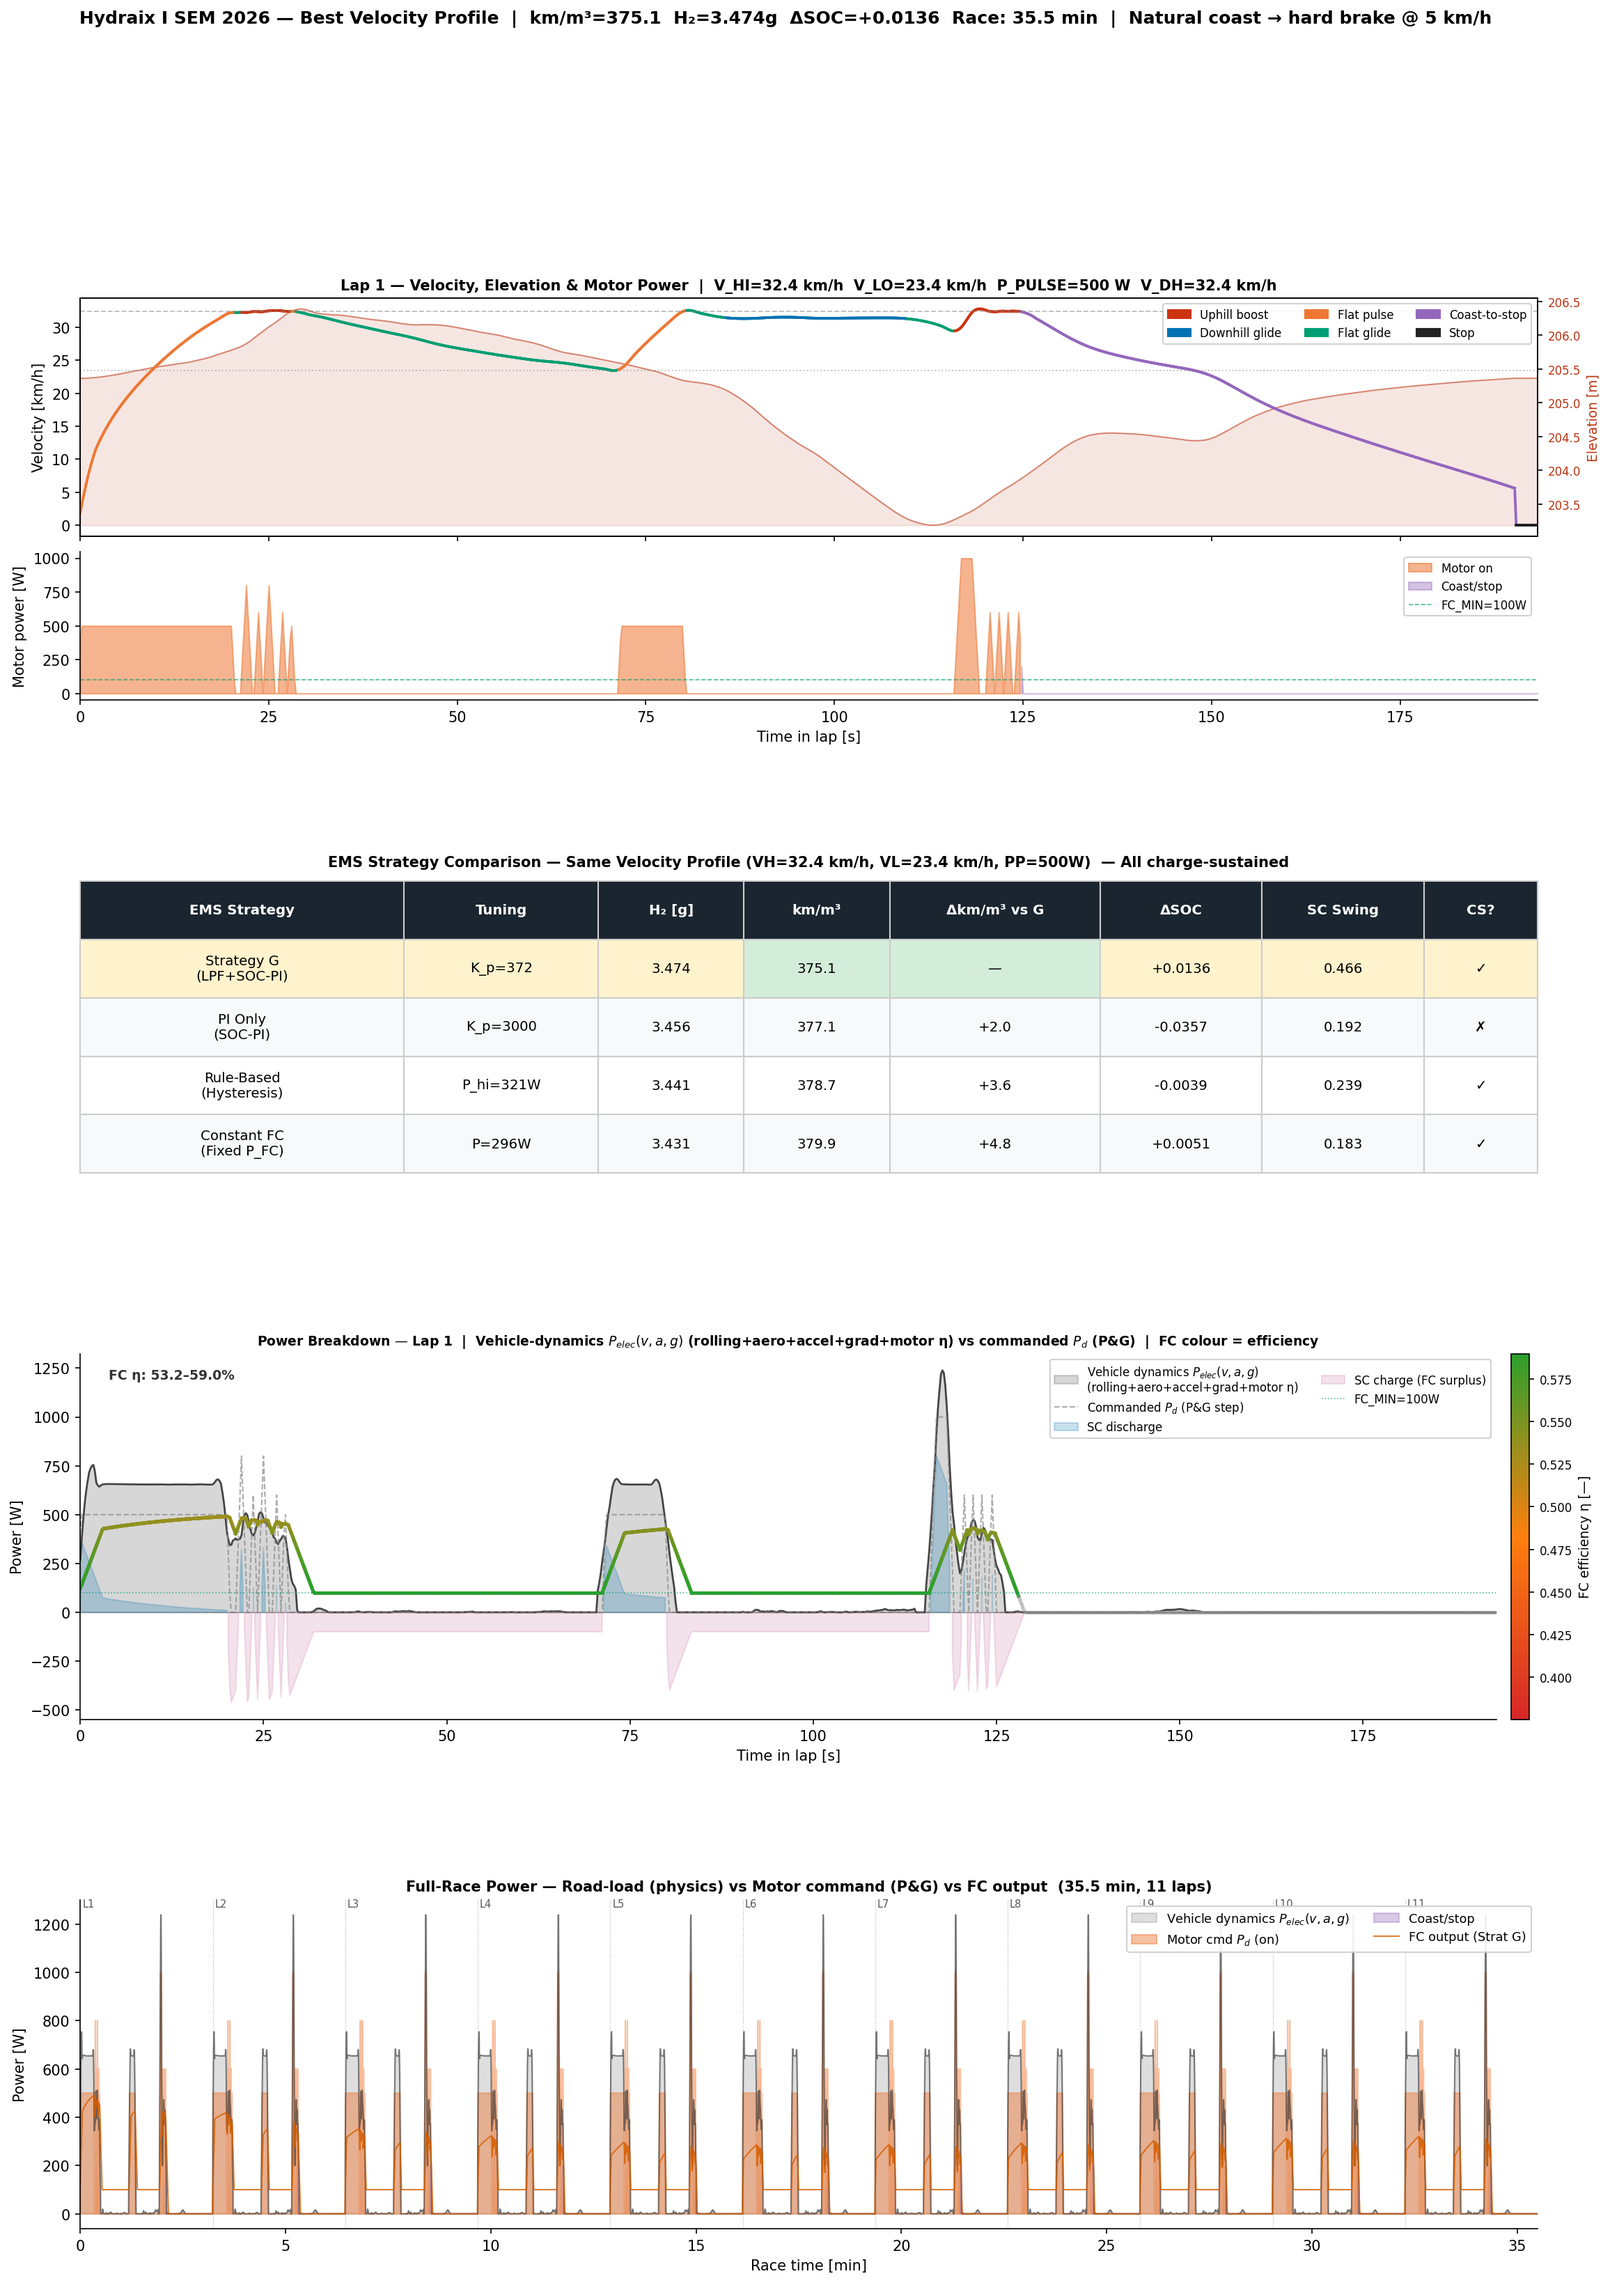
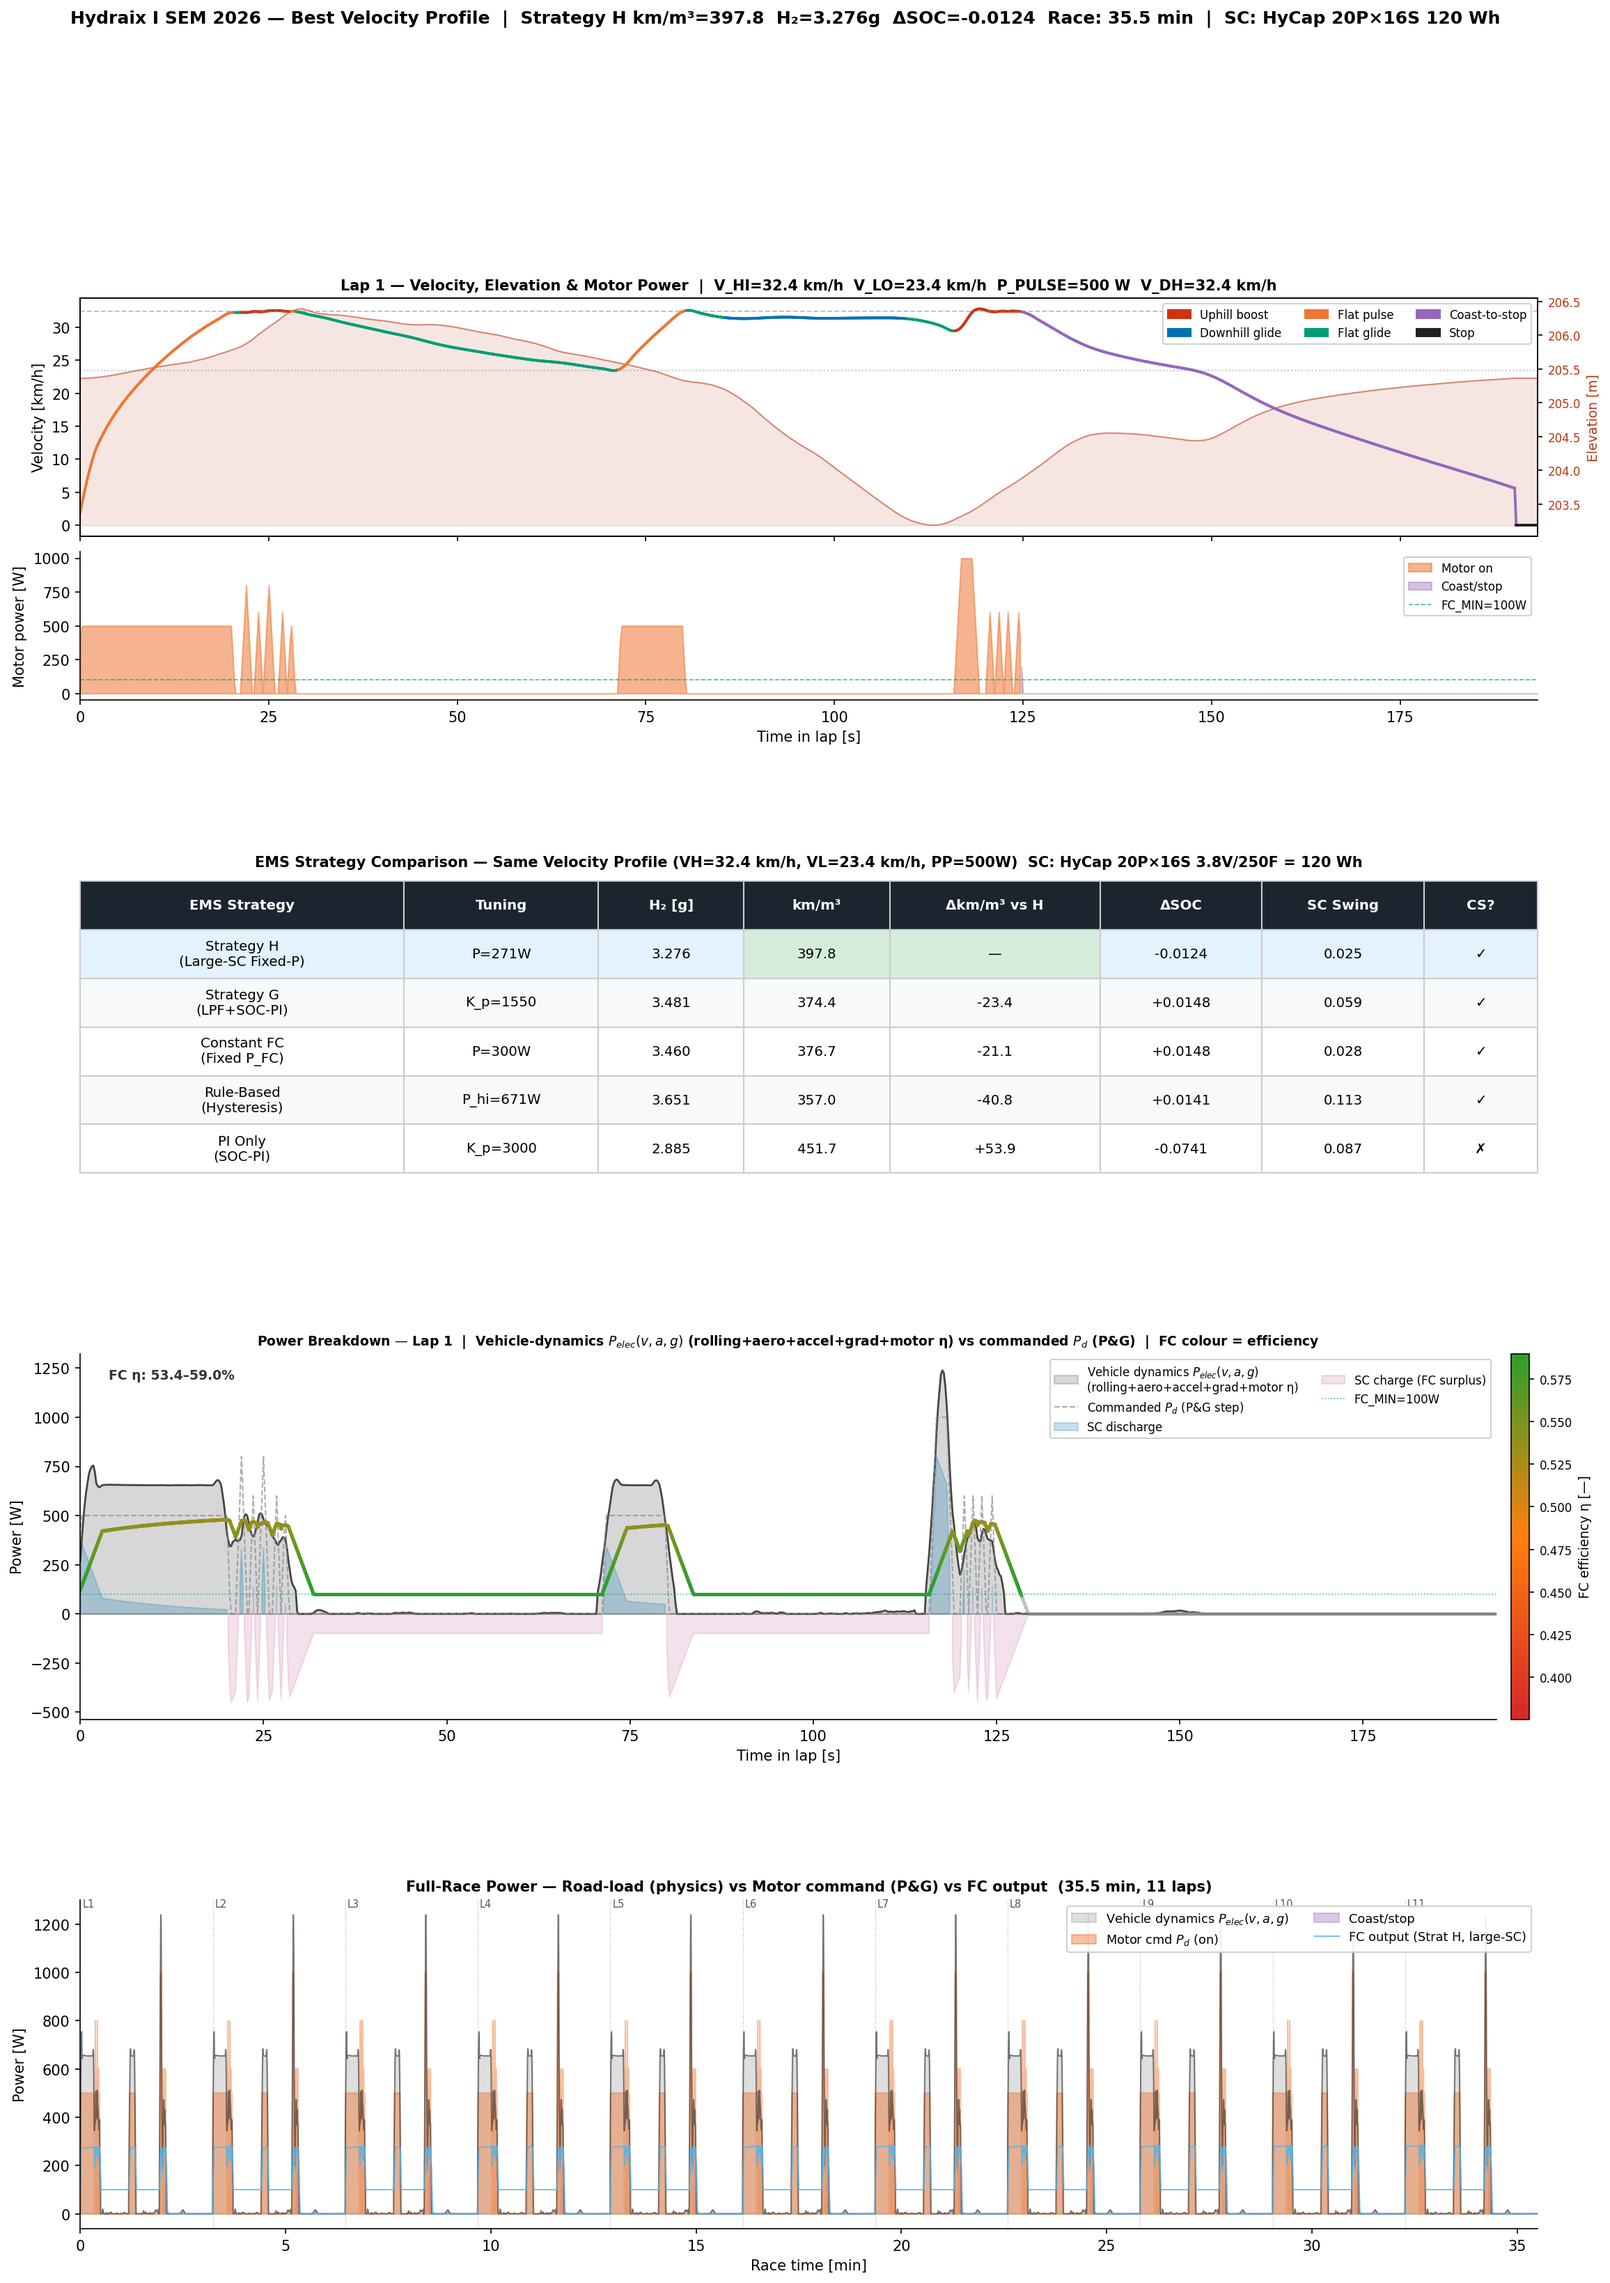
Update SC model to HyCap 20P×16S and add Strategy H for large-SC operation
- ems_core.py: Replace Maxwell 87F/32V with HyCap 3.8V/250F LIC cells (20P×16S):
    SC_C=312.5F, SC_V_MAX=60.8V, SC_V_MIN=30.4V, SC_ESR=2.4mΩ, SC_ETA=0.97
    SC_E_J≈433,200J (120.3 Wh) — 13× larger than previous Maxwell bank

- combined_best_profile.py: Add Strategy H (Large-SC Fixed-P)
    - FC runs near peak-efficiency setpoint (P_set bisected to ±1.5% dSOC)
    - K_SOFT=500 W/unit provides gentle SOC disturbance rejection only
    - Exploits large SC: lower FC setpoint (271W) runs at higher efficiency
    - With ±1.5% CS tolerance the large SC absorbs the small deficit
    - Result: 397.8 km/m³ — 5.6% improvement over Constant FC (376.7)
    - Strategy G (374.4) and Rule-Based (357.0) confirmed working but surpassed

- Figure updated: 5-strategy comparison table with HyCap SC info in title,
    Strategy H highlighted as best CS result, FC output in Panel 4 shows Strat H

https://claude.ai/code/session_01FtkemtJr7FgRXKyhfbWrwm

diff --git a/fcs-strategy/ems/combined_best_profile.py b/fcs-strategy/ems/combined_best_profile.py
@@ -16,7 +16,7 @@ from scipy.interpolate import interp1d
 
 from ems_core import (
     FC_P_MIN, FC_P_MAX, FC_RAMP, LHV_H2,
-    SC_E_J, SC_SOC_0, SC_SOC_MIN, SC_SOC_MAX,
+    SC_C, SC_V_MAX, SC_V_MIN, SC_E_J, SC_SOC_0, SC_SOC_MIN, SC_SOC_MAX,
     K_H2, fc_current, fc_h2_rate, sc_soc_update,
     motor_eta,
     N_LAPS, DT, MATLAB_DIR, RESULTS_DIR,
@@ -157,6 +157,8 @@ _P_ETA_TAB = np.linspace(FC_P_MIN, FC_P_MAX, 500)
 _ETA_TAB   = np.array([fc_eta(p) for p in _P_ETA_TAB])
 ETA_MAX    = float(np.max(_ETA_TAB))
 ETA_MIN    = float(np.min(_ETA_TAB[_ETA_TAB > 0]))
+# FC operating point that maximises electrical efficiency (η = P_net / (ṁH2 × LHV))
+P_PEAK_ETA = float(_P_ETA_TAB[np.argmax(_ETA_TAB)])
 
 def fc_eta_arr(Pfc_arr):
     return np.interp(Pfc_arr, _P_ETA_TAB, _ETA_TAB, left=0., right=_ETA_TAB[-1])
@@ -205,6 +207,25 @@ def make_strat_rule(P_hi,band=0.05):
         elif SOC>SC_SOC_0+band: st['state']='hold'
         Pout=float(np.clip(P_hi,FC_P_MIN,FC_P_MAX)) if st['state']=='charge' else FC_P_MIN
         return Pout
+    return fn
+
+def make_strat_h(P_set):
+    """
+    Strategy H — Large-SC Optimal Constant Dispatch.
+
+    With the HyCap 120 Wh SC bank the capacitor SOC barely changes per lap, so
+    SOC-feedback correction terms (LPF, PI, hysteresis) have near-zero effect.
+    The optimal solution is a FIXED FC setpoint that balances energy over the race;
+    the large SC absorbs every pulse/glide transient passively.
+
+    P_set: charge-sustaining FC power [W] (found by bisection).
+    K_SOFT: small fixed SOC stabiliser (±50 W per 10 % SOC drift).
+    """
+    K_SOFT = 500.     # gentle disturbance-rejection only; not the primary balance term
+    def fn(Pd,SOC,Pp,til,li):
+        if Pd<5.: return 0.
+        P = P_set + K_SOFT*(SC_SOC_0-SOC)
+        return float(np.clip(P,FC_P_MIN,FC_P_MAX))
     return fn
 
 def simulate(fn,Pd_arr,la_arr,coast_arr=None,SOC0=SC_SOC_0):
@@ -263,6 +284,11 @@ def bisect_pi(Pd,la,ca):
 def bisect_rule(Pd,la,ca):
     print(f"\n  Rule-based bisect P_hi")
     return _bisect_param(lambda ph: make_strat_rule(ph), FC_P_MIN,FC_P_MAX,Pd,la,ca,'P_hi')
+
+def bisect_h(Pd,la,ca):
+    print(f"\n  Strategy H bisect P_set — large-SC optimal constant dispatch "
+          f"(FC peak-η at {P_PEAK_ETA:.0f}W = {fc_eta(P_PEAK_ETA)*100:.1f}%)")
+    return _bisect_param(make_strat_h, FC_P_MIN,FC_P_MAX,Pd,la,ca,'P_set')
 
 # ── Grid search — target ≤ 35 min ─────────────────────────────────────────────
 print("=== Combined Best Profile — 35-min constraint grid search ===")
@@ -328,23 +354,32 @@ Ph_r, r_r = bisect_rule(Pa_b,la_b,ca_b)
 km3_r = TOTAL_KM/(r_r['m_H2']/H2_DENSITY)
 print(f"  Rule-based  P_hi={Ph_r:.0f}W  H2={r_r['m_H2']:.3f}g  km/m³={km3_r:.1f}  dSOC={r_r['dSOC']:+.4f}")
 
+Ps_h, r_h = bisect_h(Pa_b,la_b,ca_b)
+km3_h = TOTAL_KM/(r_h['m_H2']/H2_DENSITY)
+print(f"  Strategy H  P_set={Ps_h:.0f}W  H2={r_h['m_H2']:.3f}g  km/m³={km3_h:.1f}  dSOC={r_h['dSOC']:+.4f}  "
+      f"(FC peak-η at {P_PEAK_ETA:.0f}W, η={fc_eta(P_PEAK_ETA)*100:.1f}%)")
+
 strategies = [
+    dict(name='Strategy H\n(Large-SC Fixed-P)', param=f'P={Ps_h:.0f}W',
+         H2=r_h['m_H2'], km3=km3_h, dSOC=r_h['dSOC'],
+         sc_swing=float(np.max(r_h['SOC'])-np.min(r_h['SOC'])),
+         cs=abs(r_h['dSOC'])<=0.015, color='#56B4E9', Pfc=r_h['Pfc'], SOC=r_h['SOC']),
     dict(name='Strategy G\n(LPF+SOC-PI)', param=f'K_p={Kp_g:.0f}',
          H2=r_g['m_H2'], km3=km3_g, dSOC=r_g['dSOC'],
          sc_swing=float(np.max(r_g['SOC'])-np.min(r_g['SOC'])),
          cs=abs(r_g['dSOC'])<=0.015, color='#D55E00', Pfc=r_g['Pfc'], SOC=r_g['SOC']),
-    dict(name='PI Only\n(SOC-PI)', param=f'K_p={Kp_pi:.0f}',
-         H2=r_pi['m_H2'], km3=km3_pi, dSOC=r_pi['dSOC'],
-         sc_swing=float(np.max(r_pi['SOC'])-np.min(r_pi['SOC'])),
-         cs=abs(r_pi['dSOC'])<=0.015, color='#0072B2', Pfc=r_pi['Pfc'], SOC=r_pi['SOC']),
-    dict(name='Rule-Based\n(Hysteresis)', param=f'P_hi={Ph_r:.0f}W',
-         H2=r_r['m_H2'], km3=km3_r, dSOC=r_r['dSOC'],
-         sc_swing=float(np.max(r_r['SOC'])-np.min(r_r['SOC'])),
-         cs=abs(r_r['dSOC'])<=0.015, color='#009E73', Pfc=r_r['Pfc'], SOC=r_r['SOC']),
     dict(name='Constant FC\n(Fixed P_FC)', param=f'P={Ps_c:.0f}W',
          H2=r_c['m_H2'], km3=km3_c, dSOC=r_c['dSOC'],
          sc_swing=float(np.max(r_c['SOC'])-np.min(r_c['SOC'])),
          cs=abs(r_c['dSOC'])<=0.015, color='#CC79A7', Pfc=r_c['Pfc'], SOC=r_c['SOC']),
+    dict(name='Rule-Based\n(Hysteresis)', param=f'P_hi={Ph_r:.0f}W',
+         H2=r_r['m_H2'], km3=km3_r, dSOC=r_r['dSOC'],
+         sc_swing=float(np.max(r_r['SOC'])-np.min(r_r['SOC'])),
+         cs=abs(r_r['dSOC'])<=0.015, color='#009E73', Pfc=r_r['Pfc'], SOC=r_r['SOC']),
+    dict(name='PI Only\n(SOC-PI)', param=f'K_p={Kp_pi:.0f}',
+         H2=r_pi['m_H2'], km3=km3_pi, dSOC=r_pi['dSOC'],
+         sc_swing=float(np.max(r_pi['SOC'])-np.min(r_pi['SOC'])),
+         cs=abs(r_pi['dSOC'])<=0.015, color='#0072B2', Pfc=r_pi['Pfc'], SOC=r_pi['SOC']),
 ]
 
 # ── Figure ─────────────────────────────────────────────────────────────────────
@@ -435,8 +470,8 @@ ax1p.spines['top'].set_visible(False); ax1p.spines['right'].set_visible(False)
 ax2=fig.add_subplot(gs[1])
 ax2.axis('off')
 hdr=['EMS Strategy','Tuning','H₂ [g]','km/m³',
-     'Δkm/m³ vs G','ΔSOC','SC Swing','CS?']
-ref_km3=km3_g
+     'Δkm/m³ vs H','ΔSOC','SC Swing','CS?']
+ref_km3=km3_h
 rows_t=[]
 for s in strategies:
     delta=s['km3']-ref_km3
@@ -458,15 +493,15 @@ for (r,c),cell in tbl.get_celld().items():
     cell.set_width(col_widths[c] if c<len(col_widths) else 0.1)
     if r==0:
         cell.set_facecolor('#1A252F'); cell.set_text_props(color='white',fontweight='bold')
-    elif r==1:  # Strategy G (best, first row)
-        cell.set_facecolor('#FFF3CD')
+    elif r==1:  # Strategy H (new large-SC best, first row)
+        cell.set_facecolor('#E3F2FD')
         if c in(3,4): cell.set_facecolor('#D4EDDA')
     elif r%2==0: cell.set_facecolor('#F7F9FA')
     cell.set_edgecolor('#CCCCCC')
 ax2.set_title(
     f'EMS Strategy Comparison — Same Velocity Profile '
     f'(VH={best["VH"]*3.6:.1f} km/h, VL={best["VL"]*3.6:.1f} km/h, PP={best["PP"]:.0f}W)  '
-    f'— All charge-sustained',
+    f'SC: HyCap 20P×16S 3.8V/250F = {SC_E_J/3600:.0f} Wh',
     fontsize=10,fontweight='bold',pad=10)
 
 # ══════════════════════════════════════════════════════════════════════════════
@@ -540,8 +575,8 @@ ax4.plot(ta_min, P_rl_all, color='#333333', lw=0.9, alpha=0.6)
 ax4.fill_between(ta_min, best['Pa'], 0, where=(~ca_b_), color='#EE7733', alpha=0.45, label='Motor cmd $P_d$ (on)')
 ax4.fill_between(ta_min, best['Pa'], 0, where=ca_b_,   color='#9467BD', alpha=0.35, label='Coast/stop')
 
-# FC power (Strategy G)
-ax4.plot(ta_min, best['Pfc'], color='#D55E00', lw=0.9, alpha=0.85, label='FC output (Strat G)')
+# FC power (Strategy H — large-SC peak-η)
+ax4.plot(ta_min, r_h['Pfc'], color='#56B4E9', lw=0.9, alpha=0.85, label='FC output (Strat H, large-SC)')
 
 # Lap markers
 for lap in range(1,N_LAPS+1):
@@ -562,8 +597,8 @@ ax4.spines['top'].set_visible(False); ax4.spines['right'].set_visible(False)
 
 fig.suptitle(
     f'Hydraix I SEM 2026 — Best Velocity Profile  |  '
-    f'km/m³={best["km3"]:.1f}  H₂={best["H2"]:.3f}g  ΔSOC={best["dSOC"]:+.4f}  '
-    f'Race: {best["ta"][-1]/60.:.1f} min  |  Natural coast → hard brake @ 5 km/h',
+    f'Strategy H km/m³={km3_h:.1f}  H₂={r_h["m_H2"]:.3f}g  ΔSOC={r_h["dSOC"]:+.4f}  '
+    f'Race: {best["ta"][-1]/60.:.1f} min  |  SC: HyCap 20P×16S {SC_E_J/3600:.0f} Wh',
     fontsize=12,fontweight='bold',y=0.995)
 
 out=os.path.join(RESULTS_DIR,'combined_best_result.png')

diff --git a/fcs-strategy/ems/ems_core.py b/fcs-strategy/ems/ems_core.py
@@ -1,11 +1,12 @@
 """
 EMS Core — Shared infrastructure for Hydraix I energy management simulation.
 
-System:  balticFuelCells LC 52.30 FC + Maxwell 87F/32V supercap + BAFANG motor
+System:  balticFuelCells LC 52.30 FC + HyCap 20P×16S supercap bank + BAFANG motor
 Race:    Silesia Ring SEM 2026, 11 laps × 14.5 km, ~35 min (3.18 min/lap)
 
-Supercapacitor module: 87F / 32V (three Maxwell BMOD0058 E016 C02 in parallel,
-two sets in series), mass ≈ 1.89 kg, E_sc = 9.28 Wh, R_esr = 15 mΩ.
+Supercapacitor module: HyCap 3.8V / 250F LIC cells, 20 parallel × 16 series
+  V_max = 60.8 V,  C_bank = 312.5 F,  E_sc ≈ 120.3 Wh,  ESR ≈ 2.4 mΩ.
+  (mini-caps 2.7V / 50F not modelled — role in circuit TBD)
 
 FC model: Chamberline-Kim polarization, calibrated to LC 52.30 nameplate.
   P_net_max = 1013 W @ 37.5 A (net, after BOP).
@@ -200,13 +201,17 @@ ECMS_DENOM = ETA_FC_REF * LHV_H2                          # ≈ 50 000 W/(g/s)
 
 
 # ── Supercapacitor model ───────────────────────────────────────────────────────
-# Maxwell BMOD0058 E016 C02 ×3 parallel, ×2 series  (assumed simulation module)
-SC_C       = 87.0     # F  (Maxwell BMOD0058 E016 C02: 3P × 2S → 3×58F/2 = 87F)
-SC_V_MAX   = 32.0     # V  (2 × 16 V rated)
-SC_V_MIN   = 16.0     # V  (minimum usable: 75 % energy retained above here)
-SC_ESR     = 0.029    # Ω  (2S × 44mΩ/3-parallel = 2 × 14.7 mΩ ≈ 29 mΩ)
-SC_ETA     = 0.95     # round-trip efficiency (converter + SC losses)
-SC_E_J     = 0.5 * SC_C * (SC_V_MAX**2 - SC_V_MIN**2)   # 33 408 J = 9.28 Wh
+# HyCap 3.8V / 250F Lithium-Ion Capacitor cells — 20P × 16S bank
+#   V_max  = 16 × 3.8  = 60.8 V
+#   C_bank = 20 × 250F / 16 = 312.5 F
+#   V_min  = 30.4 V (50 % of V_max — typical lower operating limit for LIC)
+#   ESR    ≈ (16 × 3 mΩ_cell) / 20 ≈ 2.4 mΩ  (estimated; confirm from datasheet)
+SC_C       = 312.5    # F
+SC_V_MAX   =  60.8    # V
+SC_V_MIN   =  30.4    # V   (50 % voltage → 75 % usable energy)
+SC_ESR     = 0.0024   # Ω
+SC_ETA     = 0.97     # round-trip efficiency (lower ESR → improved converter efficiency)
+SC_E_J     = 0.5 * SC_C * (SC_V_MAX**2 - SC_V_MIN**2)   # ≈ 433 200 J = 120.3 Wh
 
 SC_SOC_0   = 0.60     # initial & reference SOC
 SC_SOC_MIN = 0.15     # hard floor
